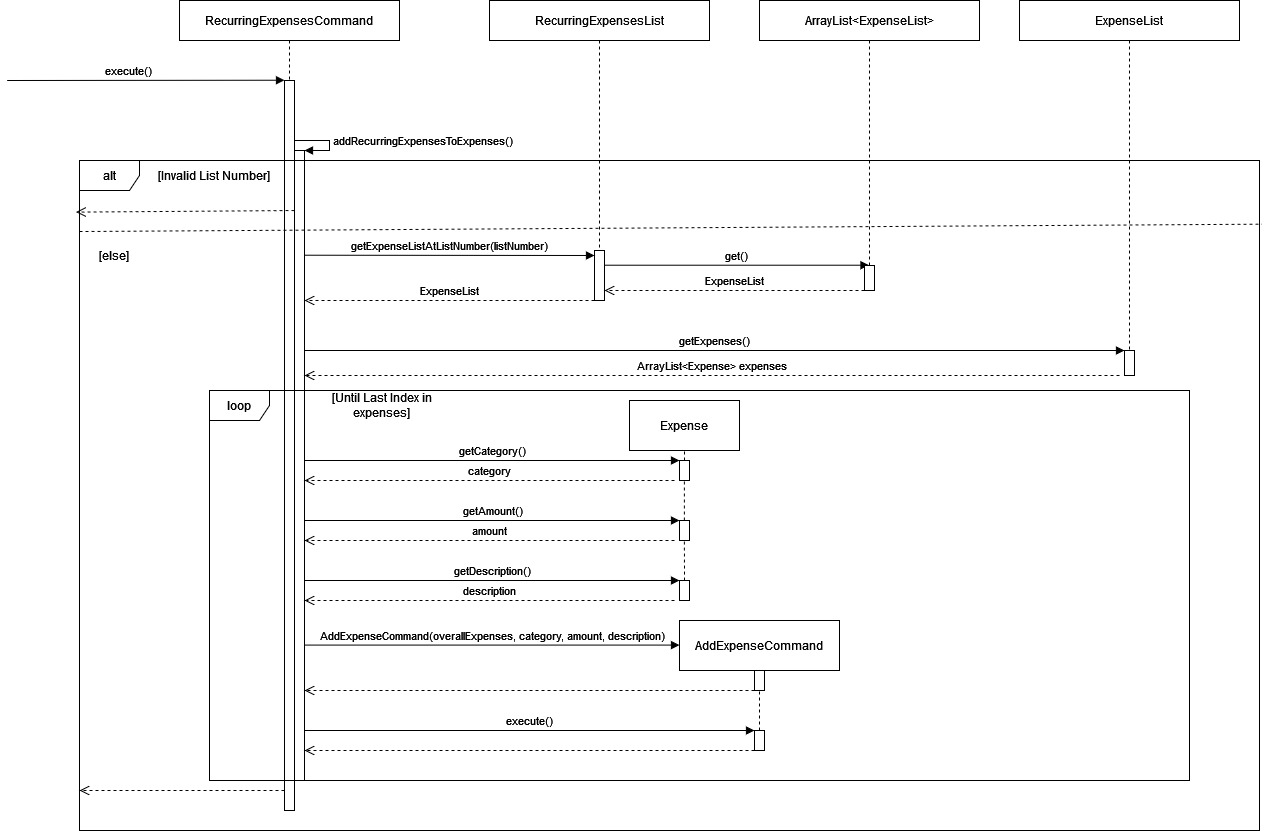
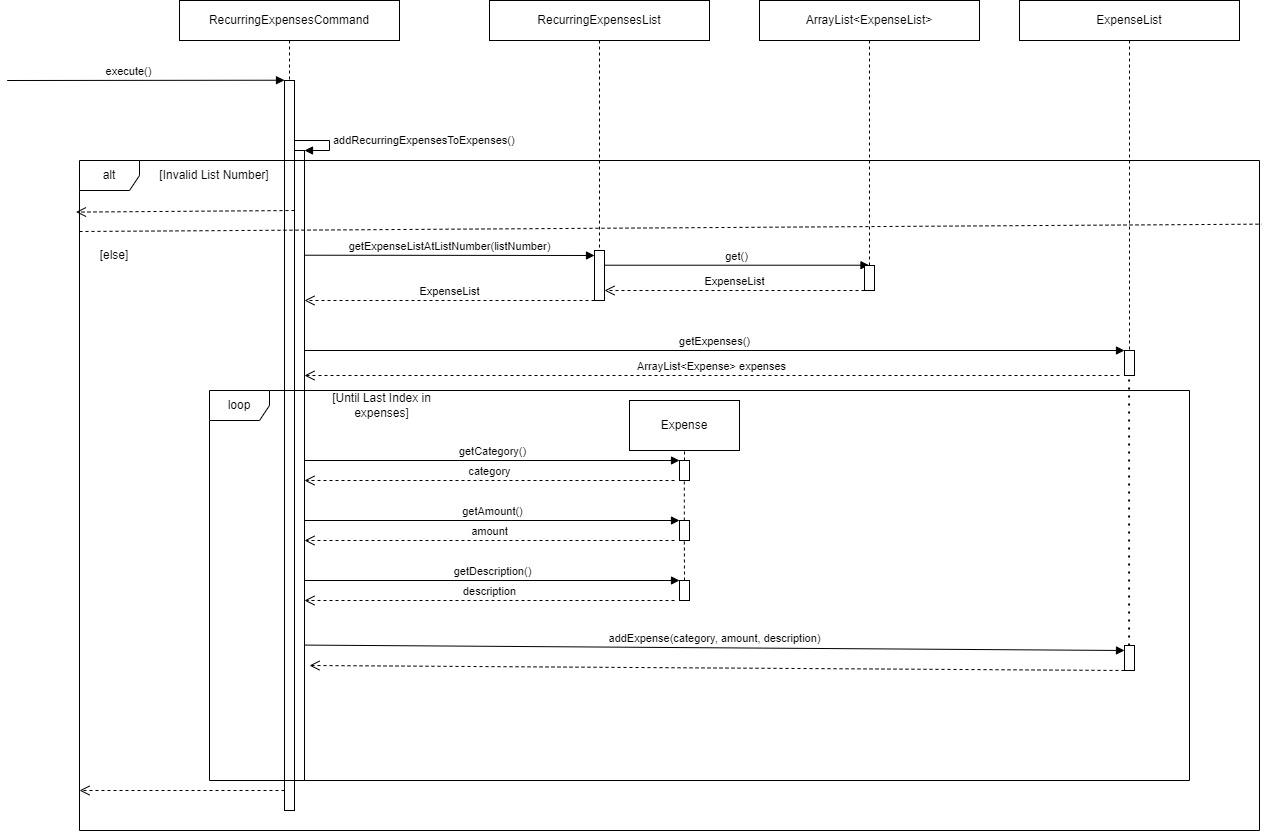
Update sequence diagrams in Developer Guide

diff --git a/docs/DeveloperGuide.md b/docs/DeveloperGuide.md
@@ -714,7 +714,7 @@ Process Overview:
 
 Sequence Diagram:
 The sequence diagram for the Check Split Expenses feature would illustrate the interactions between the User, BudgetBuddy, Parser, CheckSplitExpensesCommand, and SplitExpenseList classes, showing how the method calls and returns between these objects complete the operation to display all split expenses.
-![Sequence Diagram for Parser for addSplitExpense Feature](docs\diagram\sequenceDiagram_ListSplitExpense.jpg)
+![Sequence Diagram for Parser for addSplitExpense Feature](diagrams/sequenceDiagram_checkSplitBills.jpg)
 
 <!-- @@author yyangdaa-->
 ### 4.12 Settle Bill feature
@@ -744,9 +744,10 @@ Process Overview:
 
 Sequence Diagram:
 The sequence diagram for the Settle Bill feature would illustrate the interactions between the `User`, `BudgetBuddy`, `Parser`, `SettleSplitExpenseCommand`, and `SplitExpenseList` classes, showing how the method calls and returns between these objects complete the operation to mark a shared bill as settled.
-![Sequence Diagram for Parser for addSplitExpense Feature](docs\diagram\sequenceDiagram_SettleSplitExpense.jpg)
+![Sequence Diagram for Parser for addSplitExpense Feature](diagrams/sequenceDiagram_settleSplitBill.jpg)
 
 
+<!-- @@author itsmejr257-->
 ### 4.13 Find Feature
 The Find Feature allows users to search for expenses based on a specific criteria such as description, minimum amount
 and maximum amount. This feature is orchestrated by the `FindExpensesCommand` class, which is created by the `FindExpensesCommandCreator`
@@ -880,7 +881,8 @@ when `RecurringExpensesCommand#execute()` is called
 | viewexpenses | printExpensesAtIndex             | `RecurringExpenseLists#getExpenseListAtListNumber()` , `ExpenseList#listExpenses()`                              |                             |
 
 From the table above, most commandTypes have a fairly straight forward process of calling a single method from the relevant classes, and follows
-a similar process to many of the previous features too. However, the `addrec` commandType would be the most complicated to follow, given that it utilizes 3 methods from three different classes. The following
+a similar process to many of the previous features too. Hence, the explanation of these trivial methods would be left out to avoid repetition. For details regarding these methods, you may also view the JavaDoc comments found in the code. 
+However, the `addrec` commandType would be the most complicated to follow, given that it utilizes 3 methods from three different classes. The following
 is a UML sequence diagram to illustrate the implementation of the addRecurringExpensesToExpenses() method in `RecurringExpenseCommand`, upon the call of the `execute()`
 from `BudgetBuddy`
 
